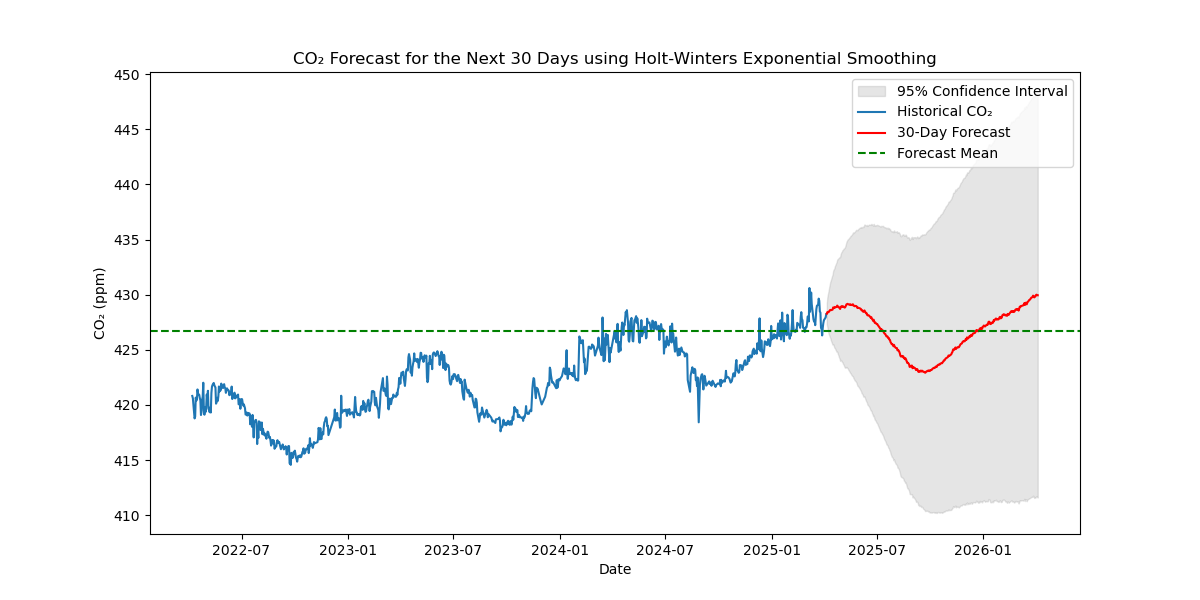
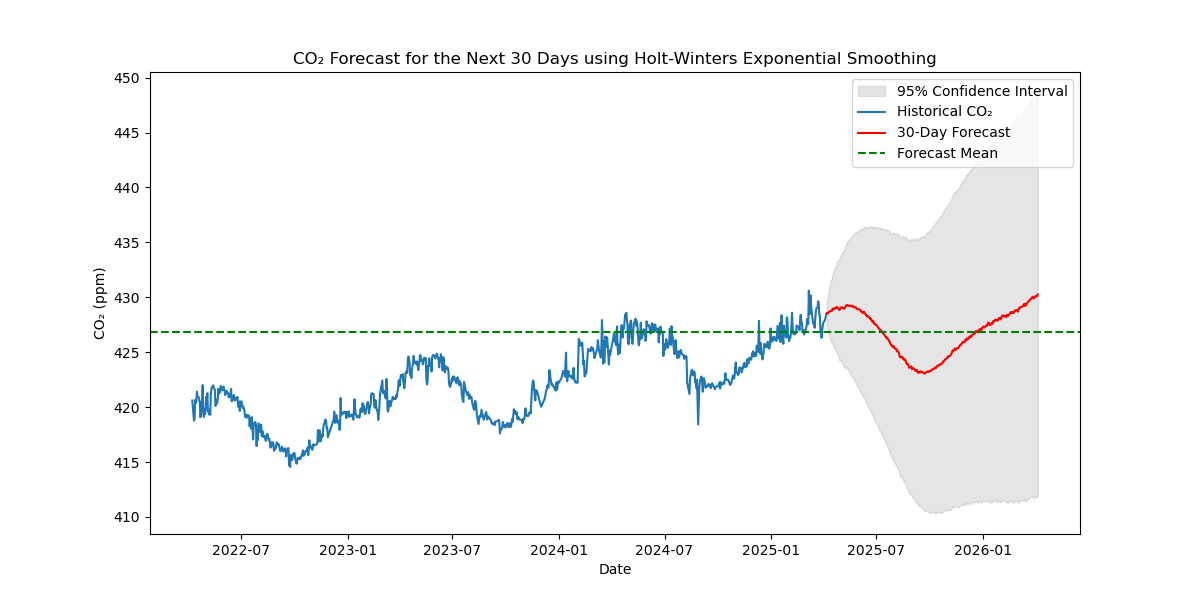
Updated charts

diff --git a/main.py b/main.py
@@ -19,7 +19,7 @@ model = ExponentialSmoothing(
     seasonal_periods=365
 )
 
-def plot_forecast(forecast,fit, lookback_days=365, confidence_interval=0.95):
+def plot_forecast(forecast,fit, lookback_days=365, confidence_interval=0.95, save_name=None):
     residual_std = fit.resid.std()
     z = norm.ppf(1 - (1 - confidence_interval) / 2)
     # For each forecast step h (starting at 1), the standard error is sigma * sqrt(h)
@@ -38,9 +38,12 @@ def plot_forecast(forecast,fit, lookback_days=365, confidence_interval=0.95):
     plt.ylabel('CO₂ (ppm)')
     plt.title('CO₂ Forecast for the Next 30 Days using Holt-Winters Exponential Smoothing')
     plt.legend()
+    if save_name:
+        plt.savefig(save_name)
+        print(f"Plot saved as {save_name}")
     plt.show()
-    
-def plot_residuals(fit):
+
+def plot_residuals(fit, save_name=None):
     # Plot of residuals with a histogram
     residuals = fit.resid
     plt.figure(figsize=(12, 6))
@@ -56,6 +59,10 @@ def plot_residuals(fit):
 
     plt.ylabel('Density')
     plt.tight_layout()
+    if save_name:
+        plt.savefig(save_name)
+        print(f"Plot saved as {save_name}")
+
     plt.show()
 
 
@@ -103,12 +110,13 @@ print(f"95% Confidence Interval for April 2025 CO2 Average: {ci_95}")
 print(f"99% Confidence Interval for April 2025 CO2 Average: {ci_99}")
     
 
-# plot prediction
-#plot_forecast(forecast, fit)
+# plot prediction and save to Charts/pred_30d_forecast.png
+plot_forecast(forecast, fit, save_name='Charts/pred_30d_forecast.png')
 
-# Plot residuals
-#plot_residuals(fit)
+# Plot residuals and save to Charts/pred_residuals.png
+plot_residuals(fit, save_name='Charts/pred_residuals.png')
 
 
 one_year_forecast = fit.forecast(365)
-#plot_forecast(one_year_forecast, fit, lookback_days=365*3)
+# Plot the one-year forecast and save to Charts/pred_1y_forecast.png
+plot_forecast(one_year_forecast, fit, lookback_days=365*3, save_name='Charts/pred_1y_forecast.png')
